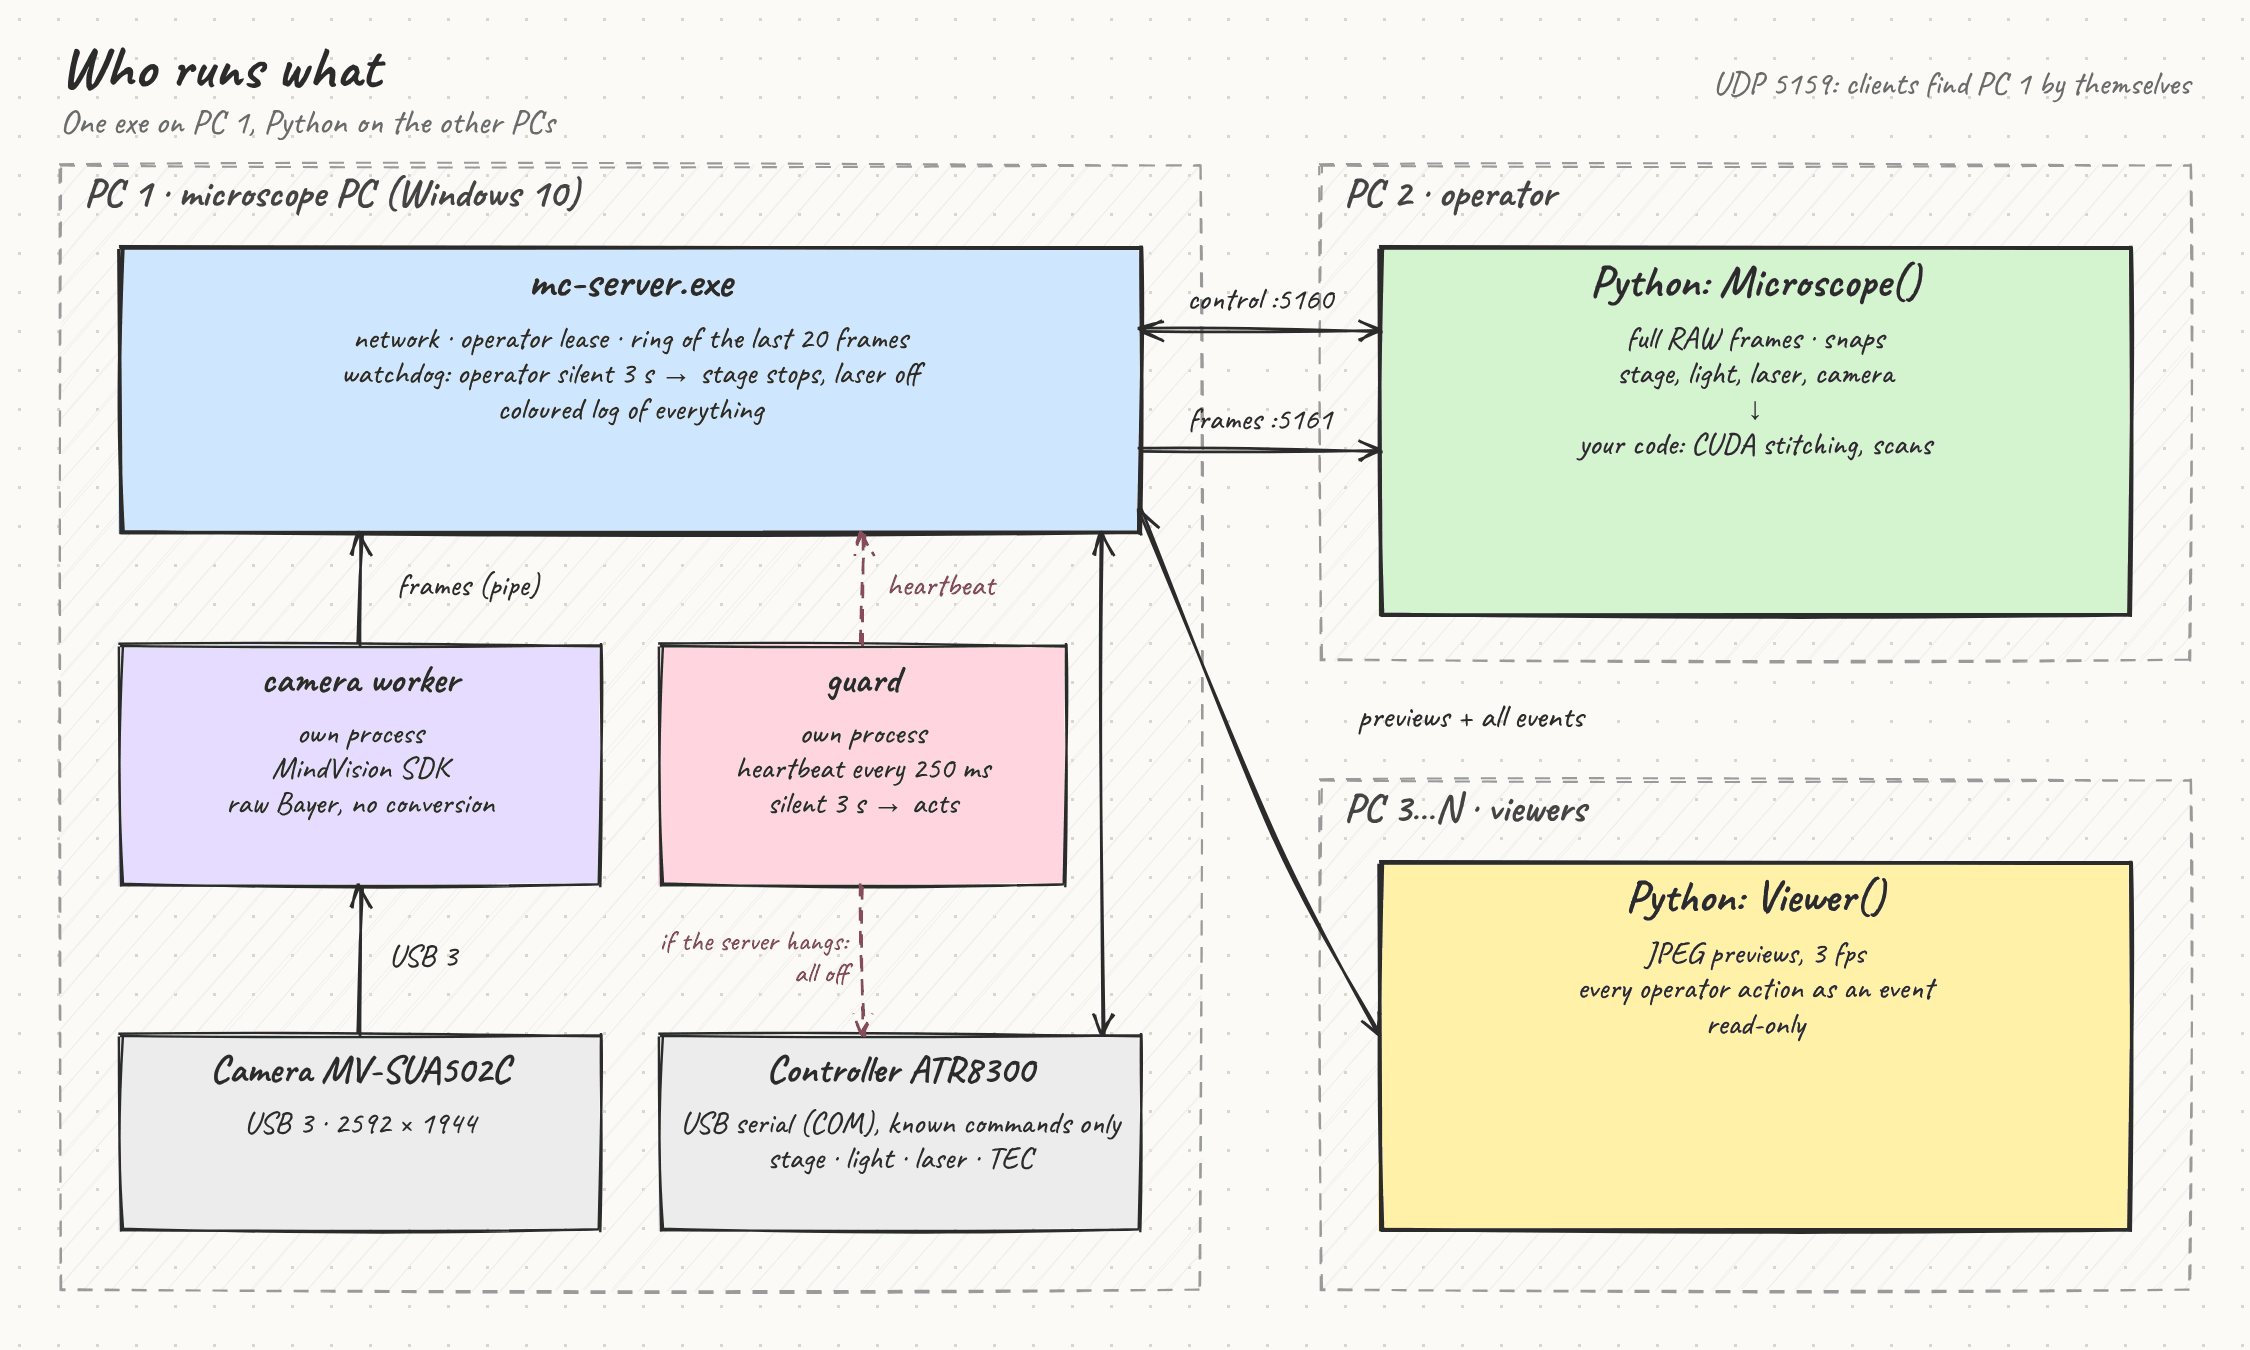
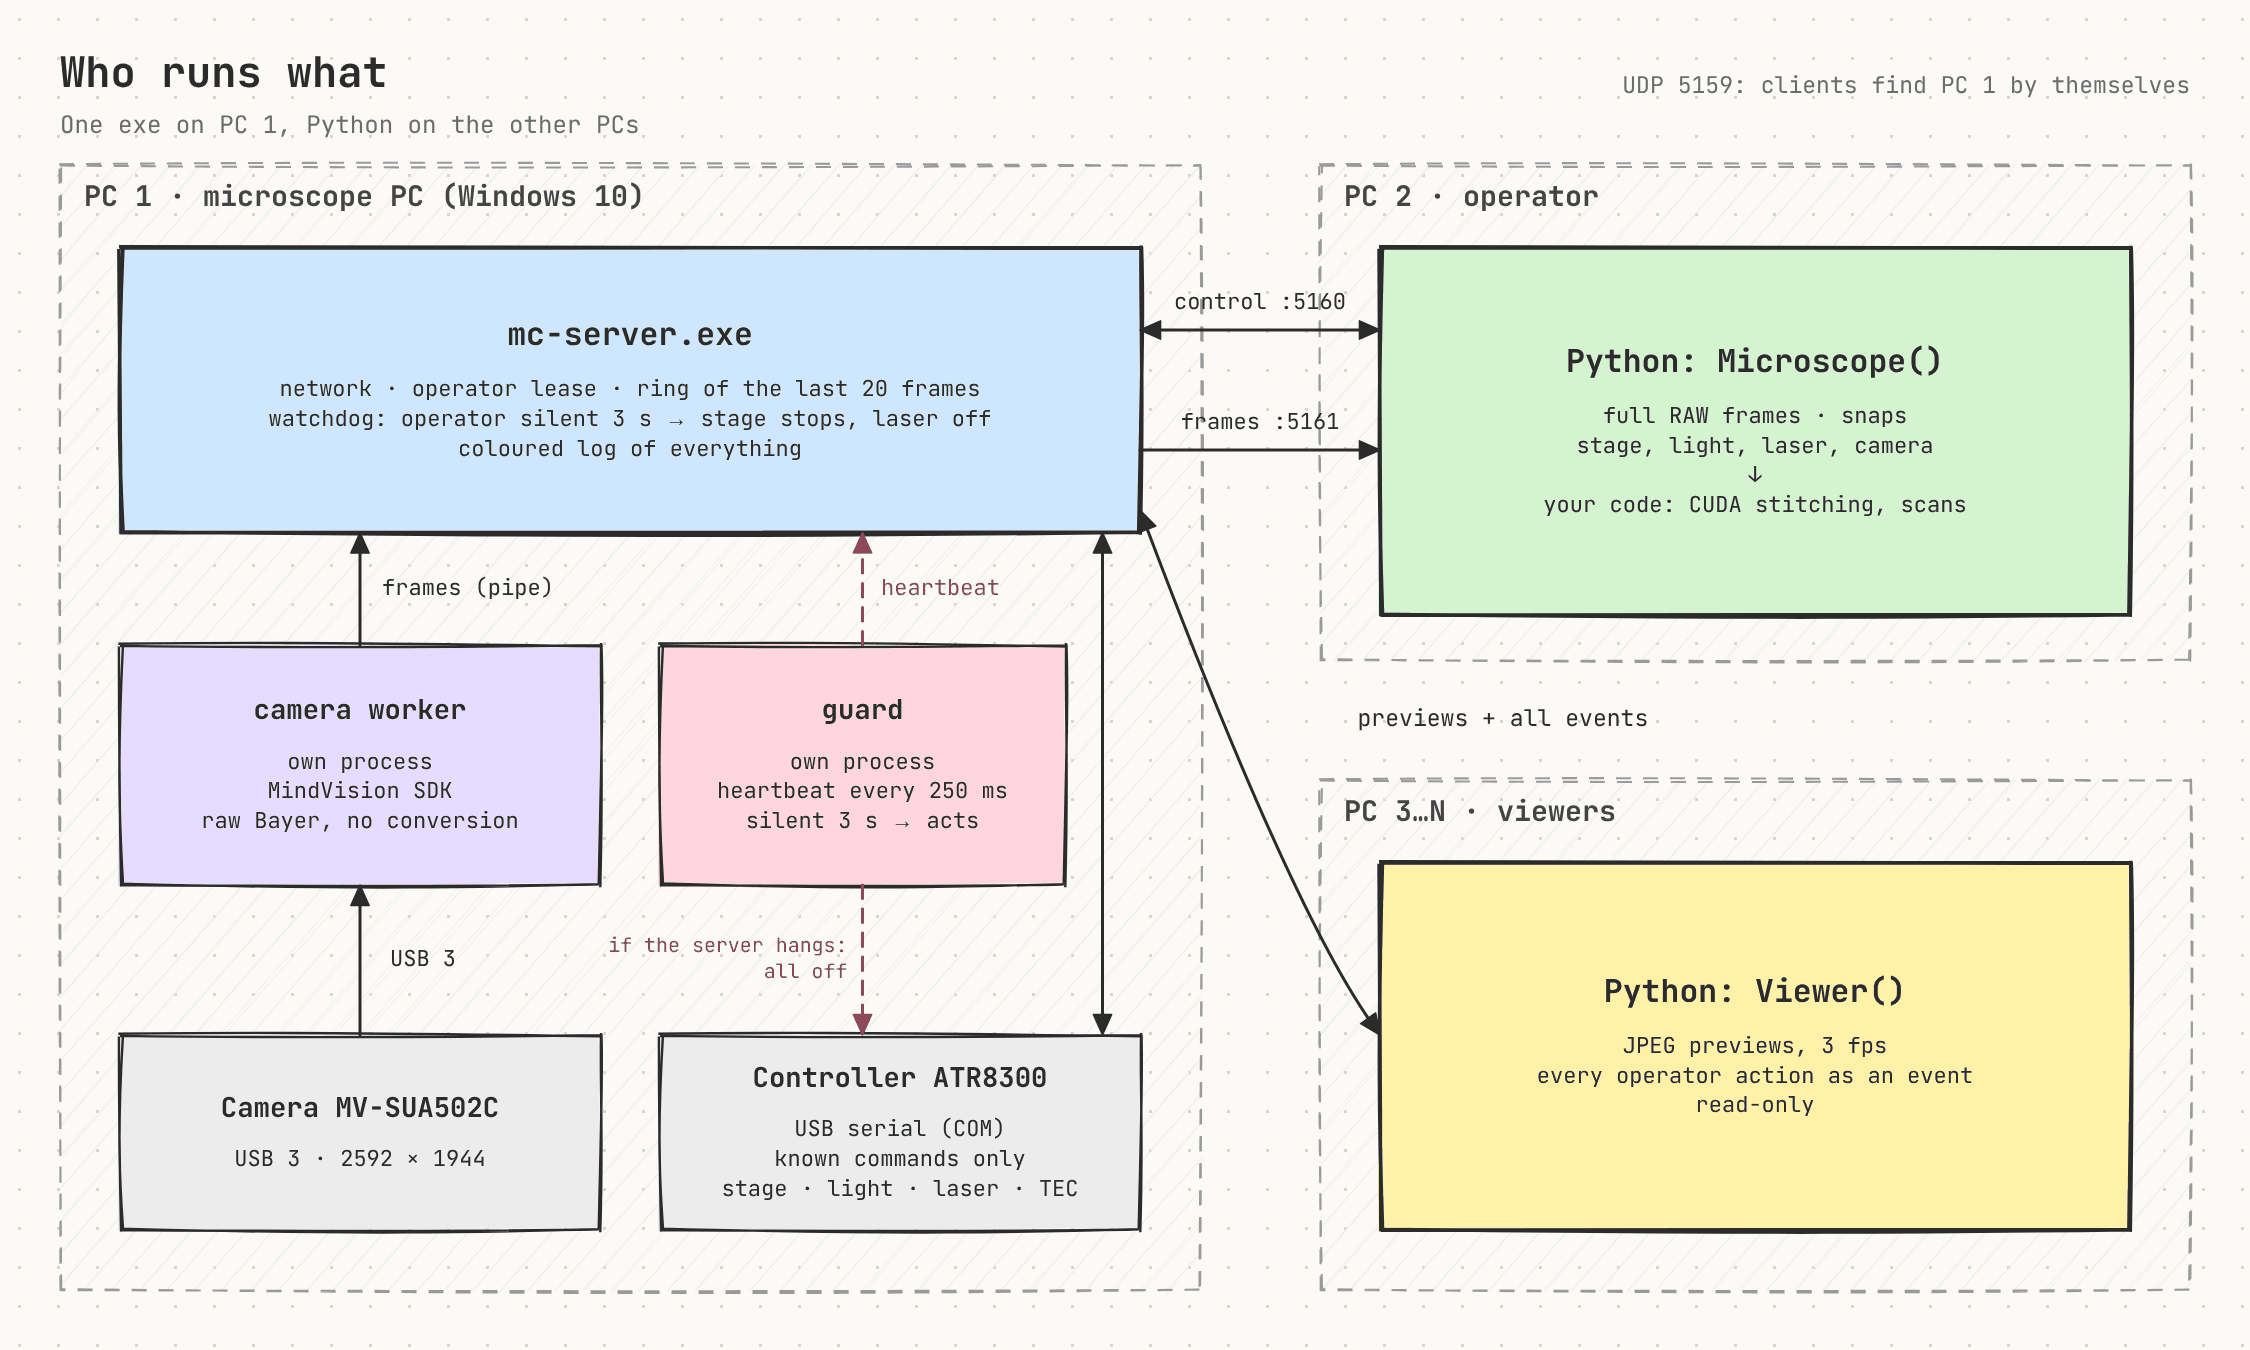
Diagrams: straight arrows that end at the box, JetBrains Mono, text centred in boxes

diff --git a/docs/diagrams/board.js b/docs/diagrams/board.js
@@ -1,9 +1,11 @@
-// A tiny whiteboard: hand-drawn boxes, notes and arrows (rough.js) with handwritten text (Caveat).
+// A tiny whiteboard: hand-drawn boxes (rough.js), straight or smoothly curved arrows, JetBrains Mono text.
 const PAL = {
   yellow: "#fff1a8", blue: "#cfe6ff", green: "#d4f3cf", pink: "#ffd6df", purple: "#e6dcff",
   orange: "#ffe0bf", grey: "#ececec", white: "#ffffff", red: "#ffc9c9",
 };
 const INK = "#2b2b2b", SOFT = "#6b6b6b";
+const FONT = "JetBrains Mono", SCALE = 0.7;    // sizes below are given for a handwriting font; mono is wider
+const NS = "http://www.w3.org/2000/svg";
 
 function board(w, h, seed = 7) {
   const svg = document.querySelector("svg");
@@ -14,15 +16,15 @@ function board(w, h, seed = 7) {
   const B = {};
   B.text = (x, y, s, o = {}) => {
     const lines = String(s).split("\n");
-    const size = o.size || 24, lh = size * (o.lh || 1.12);
-    const t = document.createElementNS("http://www.w3.org/2000/svg", "text");
+    const size = (o.size || 24) * SCALE, lh = size * (o.lh || 1.35);
+    const t = document.createElementNS(NS, "text");
     t.setAttribute("x", x); t.setAttribute("y", y - ((lines.length - 1) * lh) / 2);
-    t.setAttribute("font-family", "Caveat"); t.setAttribute("font-size", size);
-    t.setAttribute("font-weight", o.bold ? 700 : 500);
+    t.setAttribute("font-family", FONT); t.setAttribute("font-size", size);
+    t.setAttribute("font-weight", o.bold ? 700 : 400);
     t.setAttribute("fill", o.color || INK);
     t.setAttribute("text-anchor", o.anchor || "middle"); t.setAttribute("dominant-baseline", "middle");
     lines.forEach((l, i) => {
-      const sp = document.createElementNS("http://www.w3.org/2000/svg", "tspan");
+      const sp = document.createElementNS(NS, "tspan");
       sp.setAttribute("x", x); if (i) sp.setAttribute("dy", lh); sp.textContent = l; t.appendChild(sp);
     });
     return add(t);
@@ -31,12 +33,13 @@ function board(w, h, seed = 7) {
   B.box = (x, y, w, h, title, body = "", o = {}) => {
     add(rc.rectangle(x, y, w, h, { fill: PAL[o.fill || "white"], fillStyle: o.fillStyle || "solid",
       strokeWidth: o.strong ? 2.4 : 1.6, strokeLineDash: o.dashed ? [8, 7] : undefined }));
-    const ts = o.size || 26;
-    if (body || o.top) {
-      B.text(x + w / 2, y + 26 + (o.pad || 0), title, { size: ts, bold: true });
-      const bs = o.bodySize || 21, n = String(body).split("\n").length;   // body right under the title
-      B.text(x + w / 2, y + 26 + ts * 0.5 + 22 + ((n - 1) * bs * 1.12) / 2 + (o.pad || 0), body, { size: bs, color: o.bodyColor || INK });
-    } else B.text(x + w / 2, y + h / 2, title, { size: ts, bold: o.bold !== false });
+    const ts = o.size || 26, bs = o.bodySize || 21;
+    const tl = String(title).split("\n").length, n = body ? String(body).split("\n").length : 0;
+    const th = ts * SCALE * 1.35 * tl, gap = n ? 12 : 0, bh = n ? bs * SCALE * 1.35 * n : 0;
+    // title and body as one block, centred in the box (o.top: block at the top, for boxes filled by hand)
+    const top = o.top ? y + 18 : y + (h - th - gap - bh) / 2;
+    B.text(x + w / 2, top + th / 2, title, { size: ts, bold: o.bold !== false || n > 0 });
+    if (n) B.text(x + w / 2, top + th + gap + bh / 2, body, { size: bs, color: o.bodyColor || INK });
     return { x, y, w, h, l: [x, y + h / 2], r: [x + w, y + h / 2], t: [x + w / 2, y], b: [x + w / 2, y + h],
              at: (fx, fy) => [x + w * fx, y + h * fy] };
   };
@@ -55,18 +58,32 @@ function board(w, h, seed = 7) {
     add(rc.ellipse(cx, cy, w, h, { fill: PAL[o.fill || "green"], fillStyle: "solid" }));
     B.text(cx, cy, s, { size: o.size || 23, bold: o.bold });
   };
-  // arrow from a to b, optionally through a middle point (curve); label near the middle
+  // arrow from a to b: a straight line, or a smooth curve through `via`; the head ends exactly at b
+  const path = (d, col, w, dashed) => {
+    const p = document.createElementNS(NS, "path");
+    p.setAttribute("d", d); p.setAttribute("fill", "none"); p.setAttribute("stroke", col);
+    p.setAttribute("stroke-width", w); p.setAttribute("stroke-linecap", "round");
+    if (dashed) p.setAttribute("stroke-dasharray", "9 7");
+    return add(p);
+  };
+  const head = (tip, from, col) => {
+    const ang = Math.atan2(tip[1] - from[1], tip[0] - from[0]), L = 15, W = 0.42;
+    const p = document.createElementNS(NS, "path");
+    p.setAttribute("d", `M ${tip[0]} ${tip[1]} L ${tip[0] - L * Math.cos(ang - W)} ${tip[1] - L * Math.sin(ang - W)} ` +
+                        `L ${tip[0] - L * Math.cos(ang + W)} ${tip[1] - L * Math.sin(ang + W)} Z`);
+    p.setAttribute("fill", col); p.setAttribute("stroke", col); p.setAttribute("stroke-linejoin", "round");
+    add(p);
+  };
   B.arrow = (a, b, o = {}) => {
-    const col = o.color || INK, opt = { stroke: col, strokeWidth: o.width || 1.8, strokeLineDash: o.dashed ? [9, 7] : undefined };
-    const pts = o.via ? [a, o.via, b] : [a, b];
-    add(o.via ? rc.curve(pts, opt) : rc.line(a[0], a[1], b[0], b[1], opt));
-    const head = (p, q) => {
-      const ang = Math.atan2(p[1] - q[1], p[0] - q[0]), L = 16, s = 0.42;
-      add(rc.line(p[0], p[1], p[0] - L * Math.cos(ang - s), p[1] - L * Math.sin(ang - s), opt));
-      add(rc.line(p[0], p[1], p[0] - L * Math.cos(ang + s), p[1] - L * Math.sin(ang + s), opt));
-    };
-    head(b, pts[pts.length - 2]);
-    if (o.both) head(a, pts[1]);
+    const col = o.color || INK, w = o.width || 2;
+    // the line stops where the head starts, so the tip is sharp and lands on b
+    const ctrl = o.via ? [2 * o.via[0] - (a[0] + b[0]) / 2, 2 * o.via[1] - (a[1] + b[1]) / 2] : null;
+    const dirEnd = ctrl || a, dirStart = ctrl || b;
+    const back = (p, q, d) => { const L = Math.hypot(p[0] - q[0], p[1] - q[1]) || 1; return [p[0] + (q[0] - p[0]) * d / L, p[1] + (q[1] - p[1]) * d / L]; };
+    const e = back(b, dirEnd, 10), s0 = o.both ? back(a, dirStart, 10) : a;
+    path(ctrl ? `M ${s0[0]} ${s0[1]} Q ${ctrl[0]} ${ctrl[1]} ${e[0]} ${e[1]}` : `M ${s0[0]} ${s0[1]} L ${e[0]} ${e[1]}`, col, w, o.dashed);
+    head(b, dirEnd, col);
+    if (o.both) head(a, dirStart, col);
     if (o.label) {
       const m = o.via || [(a[0] + b[0]) / 2, (a[1] + b[1]) / 2];
       B.text(m[0] + (o.dx || 0), m[1] + (o.dy ?? -16), o.label, { size: o.size || 21, color: o.labelColor || col, anchor: o.anchor });
@@ -80,8 +97,7 @@ function board(w, h, seed = 7) {
     add(rc.line(x - r, y - r, x + r, y + r, { stroke: "#d33", strokeWidth: 2.4 }));
     add(rc.line(x - r, y + r, x + r, y - r, { stroke: "#d33", strokeWidth: 2.4 }));
   };
-  B.line = (a, b, o = {}) => add(rc.line(a[0], a[1], b[0], b[1], { stroke: o.color || INK, strokeWidth: o.width || 1.6,
-    strokeLineDash: o.dashed ? [8, 7] : undefined }));
+  B.line = (a, b, o = {}) => path(`M ${a[0]} ${a[1]} L ${b[0]} ${b[1]}`, o.color || INK, o.width || 1.6, o.dashed);
   B.rect = (x, y, w, h, o = {}) => add(rc.rectangle(x, y, w, h, { fill: PAL[o.fill || "white"], fillStyle: o.fillStyle || "solid",
     stroke: o.stroke || INK, strokeWidth: o.width || 1.4 }));
   return B;

diff --git a/docs/diagrams/diagrams.js b/docs/diagrams/diagrams.js
@@ -11,7 +11,7 @@ D.architecture = () => {
   const wk = B.box(80, 430, 320, 160, "camera worker", "own process\nMindVision SDK\nraw Bayer, no conversion", { fill: "purple" });
   const gd = B.box(440, 430, 270, 160, "guard", "own process\nheartbeat every 250 ms\nsilent 3 s → acts", { fill: "pink" });
   const cam = B.box(80, 690, 320, 130, "Camera MV-SUA502C", "USB 3 · 2592 × 1944", { fill: "grey" });
-  const ctl = B.box(440, 690, 320, 130, "Controller ATR8300", "USB serial (COM), known commands only\nstage · light · laser · TEC", { fill: "grey" });
+  const ctl = B.box(440, 690, 320, 130, "Controller ATR8300", "USB serial (COM)\nknown commands only\nstage · light · laser · TEC", { fill: "grey" });
   B.arrow([240, 690], [240, 590], { label: "USB 3", dx: 42, dy: 0 });
   B.arrow([240, 430], [240, 355], { label: "frames (pipe)", dx: 72, dy: 0 });
   B.arrow([735, 355], [735, 690], { both: true });
@@ -54,7 +54,7 @@ D.snap = () => {
   }
   B.text(560, 500, "frames during the move or the settle: never used", { size: 21, color: "#c0392b" });
   B.arrow([1002, 525], [1070, 300], { label: "frame 108\n+ xyz at mid-exposure", anchor: "start", dx: 8, dy: 30, color: "#2f7d32" });
-  B.arrow([1090, 300], [1150, 180], { label: "reply {seq: 108}, pixels on the data link", anchor: "start", dx: 14, dy: 10 });
+  B.arrow([1090, 300], [1150, 180], { label: "reply {seq: 108}\npixels on the data link", anchor: "start", dx: 14, dy: 10 });
   B.box(230, 670, 1230, 90, "Every frame carries",
     "xyz_um (stage at mid-exposure) · moving · settled_ms · t_exp_start / t_exp_end (server clock) → t_local_ns on PC 2", { fill: "blue", size: 25, bodySize: 22 });
 };
@@ -70,8 +70,9 @@ D.access = () => {
   const d5 = B.diamond(1040, 650, 240, 140, "control\nfree?");
   B.arrow([260, 210], d1.l); B.arrow(d1.r, d2.l, { label: "yes" }); B.arrow(d2.r, d3.l, { label: "yes" });
   B.arrow(d3.b, d4.t, { label: "yes", dx: 26, dy: 0 }); B.arrow(d4.b, d5.t, { label: "yes", dx: 26, dy: 0 });
-  const no = (from, to, code, text, ly) => {
-    B.arrow(from, to, { label: "no", color: "#c0392b", dy: ly ?? -16 });
+  const no = (from, to) => {   // label beside a vertical arrow, above a horizontal one
+    const vertical = Math.abs(to[0] - from[0]) < 5;
+    B.arrow(from, to, { label: "no", color: "#c0392b", dx: vertical ? 22 : 0, dy: vertical ? 0 : -16 });
   };
   const e1 = B.box(340, 360, 200, 90, "E111", "not on the list", { fill: "red", bodySize: 18, size: 26 });
   const e2 = B.box(640, 360, 200, 90, "E112", "no entry", { fill: "red", bodySize: 18, size: 26 });

diff --git a/docs/diagrams/render.py b/docs/diagrams/render.py
@@ -7,20 +7,20 @@ if not os.path.isdir(os.path.join(HERE, "node_modules")):
     subprocess.run(["npm", "install", "--silent"], cwd=HERE, check=True)
 chrome = next((c for c in ("google-chrome", "chromium", "chromium-browser", "chrome") if shutil.which(c)), None) or sys.exit("no Chrome")
 names = re.findall(r"^D\.(\w+) = ", open(os.path.join(HERE, "diagrams.js")).read(), re.M)
-fonts = os.path.join(HERE, "node_modules", "@fontsource", "caveat", "files")
+fonts = os.path.join(HERE, "node_modules", "@fontsource", "jetbrains-mono", "files")
 os.makedirs(OUT, exist_ok=True)
 for name in sys.argv[1:] or names:
     js = open(os.path.join(HERE, "diagrams.js")).read()
     w, h = map(int, re.search(rf"D\.{name} = \(\) => {{\s*const B = board\((\d+), (\d+)", js).groups())
     page = f"""<!doctype html><meta charset=utf-8><style>
-@font-face {{ font-family: Caveat; font-weight: 500; src: url(file://{fonts}/caveat-latin-500-normal.woff2); }}
-@font-face {{ font-family: Caveat; font-weight: 700; src: url(file://{fonts}/caveat-latin-700-normal.woff2); }}
+@font-face {{ font-family: "JetBrains Mono"; font-weight: 400; src: url(file://{fonts}/jetbrains-mono-latin-400-normal.woff2); }}
+@font-face {{ font-family: "JetBrains Mono"; font-weight: 700; src: url(file://{fonts}/jetbrains-mono-latin-700-normal.woff2); }}
 html, body {{ margin: 0; background: #fbfaf6; }}
 body {{ background-image: radial-gradient(#d9d6cc 1.2px, transparent 1.2px); background-size: 26px 26px; }}
 </style><svg xmlns="http://www.w3.org/2000/svg"></svg>
 <script src="file://{HERE}/node_modules/roughjs/bundled/rough.js"></script>
 <script src="file://{HERE}/board.js"></script><script src="file://{HERE}/diagrams.js"></script>
-<script>document.fonts.load("500 20px Caveat").then(() => document.fonts.load("700 20px Caveat")).then(() => {{ D.{name}(); }});</script>"""
+<script>document.fonts.load('400 20px "JetBrains Mono"').then(() => document.fonts.load('700 20px "JetBrains Mono"')).then(() => {{ D.{name}(); }});</script>"""
     html = os.path.join(tempfile.gettempdir(), f"mc-diagram-{name}.html")
     open(html, "w").write(page)
     png = os.path.join(OUT, f"{name}.png")
